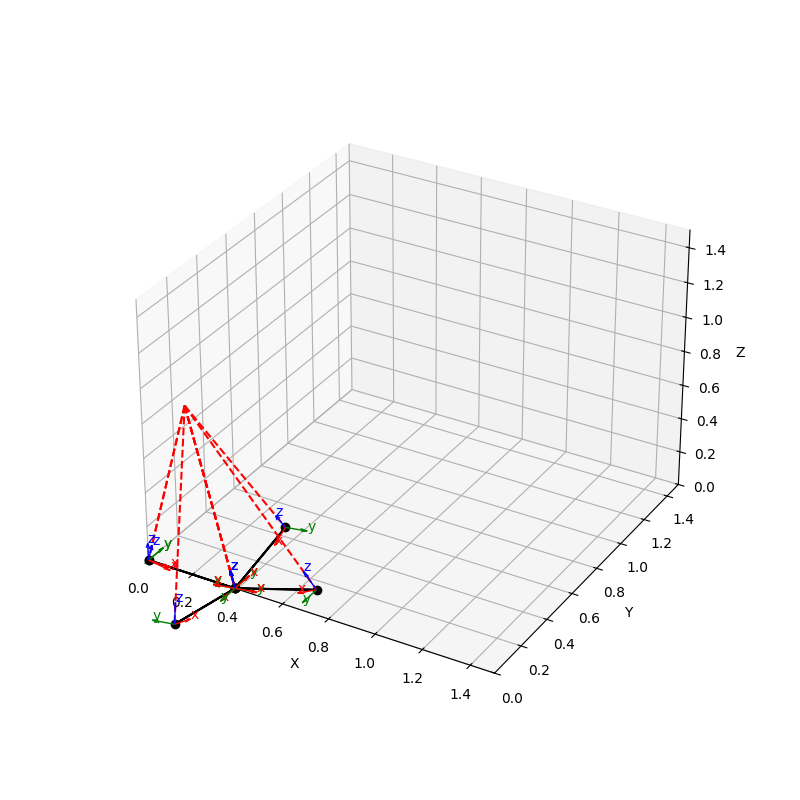
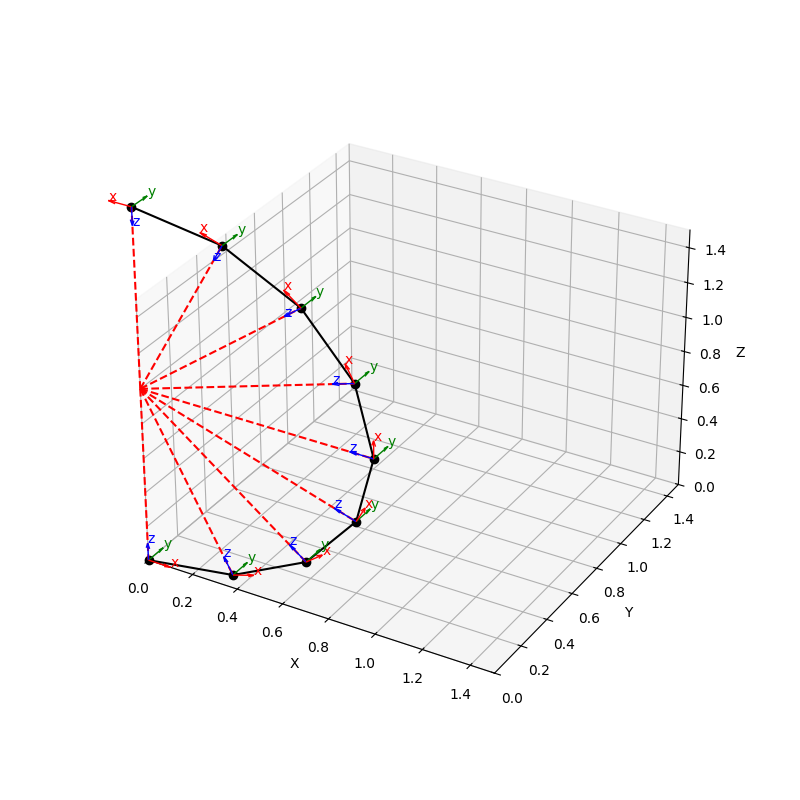
Fin base rotated about y axis to correct the length for the wire frame

diff --git a/fin_transformation.py b/fin_transformation.py
@@ -7,10 +7,14 @@ Theory taken from: FORWARD KINEMATICS: THE DENAVIT-HARTENBERG CONVENTION
 https://users.cs.duke.edu/~brd/Teaching/Bio/asmb/current/Papers/chap3-forward-kinematics.pdf
 
 TODO
-Input parameter is number of rays, geometric parameters calculated automatically 
+Fin magnitude bug 
+Update geometric parameters calculated automatically (including fold angle) when number of rays is changed
+Replace identity matrix with A0
+Double check matrix product is correct 
+Diagram to explain model using standard variable names
 """
 
-def plot_fin(positions, rotations, fin_origin, scale=0.5):
+def plot_fin(positions, rotations, fin_base, scale=0.5):
 
     """
     Plots a 3D scatter plot with folding points (joints) along the fin edge connected by a line.
@@ -21,7 +25,7 @@ def plot_fin(positions, rotations, fin_origin, scale=0.5):
     ----------
     positions : 3D position vector
     rotations: 3 x 3 orientation matrix
-    fin_origin: 3D cooridinates of the origin of the fin, calculated geometrically
+    fin_base: 3D cooridinates of the origin of the fin, calculated geometrically
     scale: scale of local coordinate axes
 
     """
@@ -66,19 +70,26 @@ def plot_fin(positions, rotations, fin_origin, scale=0.5):
     ax.set_zlim(0, 1.5)
 
     # Plot wireframe by connecting joints to fin origin
-    print(f'Sanity checking each point is equal euclidian distance from fin origin:')
+    print(f'Check each point is equal distance from fin origin and equal to hinge length l={l}:')
     for i, position in enumerate(positions):
-        xyz = [[i, j] for i, j in zip(fin_origin, position)]
+
+        # Get pairs of x, y and z coordinates to connect fin base to position 
+        xyz = [[i, j] for i, j in zip(fin_base, position)]
         x_ = xyz[0]
         y_ = xyz[1]
         z_ = xyz[2]
         ax.plot(x_, y_, z_, 'r--')  # XY plane
 
-        # Check each point is equal euclidian distance from fin origin
-        mag = ((x_[0]-x_[1])**2 + 
-               (y_[0]-y_[1])**2 + 
-               (z_[0]-z_[1])**2) ** 1/2
-        print(f'Distance of point {i} from fin origin: {round(mag, 4)}')
+        # # Check each point is equal euclidian distance from fin origin
+        # mag = ((x_[0]-x_[1])**2 + 
+        #        (y_[0]-y_[1])**2 + 
+        #        (z_[0]-z_[1])**2) ** (1/2)
+        # print(f'Distance of point {i} from fin origin: {round(mag, 4)}')
+        
+        mag = ((fin_base[0]-position[0])**2 + 
+               (fin_base[1]-position[1])**2 + 
+               (fin_base[2]-position[2])**2) ** (1/2)
+        print(f'Distance of point {i} from fin origin: {round(mag, 2)} must equal ')
 
     # plt.show()
 
@@ -158,7 +169,7 @@ def transformation_matrix(beta, a, gamma, theta):
     """
     Build A_i = Ry(beta) @ Tx(a) @ Ry(gamma) @ Rz(theta) 
     where:
-      - Ry(beta) rotates about local Y, by fixed ray offset beta, to set new X axis,
+      - Ry(beta) rotates about local Y, by fixed offset beta, to set new X axis,
       - Tx(a) is translation in new X direction by link length a,
       - Ry(gamma) rotates about local Y, by fixed offset gamma, to set new Z axis
       - Rz(theta) is joint rotation about new Z by joint angle theta.
@@ -167,72 +178,112 @@ def transformation_matrix(beta, a, gamma, theta):
     """
     return Ry(beta) @ Tx(a) @ Ry(gamma) @ Rz(theta)
 
-def generate_transformation_params(b, a, g, inner_angle):
+def generate_transformation_params(beta, a, gamma, theta):
     """
     Generates the individual joint parameters to describe the fin folding 
     """
+    inner_angle = theta
     outer_angle = -inner_angle/2
 
-    return([(b, a, g, outer_angle),
-              (b, a, g, inner_angle),
-              (b, a, g, outer_angle),
-              (b, a, g, inner_angle),
-              (b, a, g, outer_angle),
-              (b, a, g, inner_angle),
-              (b, a, g, outer_angle),
-              (b, a, g, inner_angle),
+    # print(f"inner angle = {inner_angle}, outer angle = {outer_angle}")
+
+    return([  (beta, a, gamma, outer_angle),
+              (beta, a, gamma, inner_angle),
+              (beta, a, gamma, outer_angle),
+              (beta, a, gamma, inner_angle),
+              (beta, a, gamma, outer_angle),
+              (beta, a, gamma, inner_angle),
+              (beta, a, gamma, outer_angle),
+              (beta, a, gamma, inner_angle),
               ])
 
-# 3D cooridinates of the origin of the fin, calculated geometrically
-fin_origin = [0.39/2, 0, 0.98]
 
-# Chord length along each fin ray
-l = 0.39
+# Number of fin rays
+n_rays = 8
 
-# Angle of each chord, relative to previous
-c = -pi/16
+# Fin ray angle
+alpha = pi / n_rays
 
-# Angle of each z rotation axis, relative to previous
-g = -pi/16
+# Length of hinge from fin base to fin edge
+l = 1
 
-# Iterate through a series of states from fully open fin to fully folded
-for i, angle in enumerate(np.linspace(0, pi, 1)):
+# Height of fin ray
+h = l * cos(alpha/2)
+
+# Chord of fin ray (modelled as link length)
+a = 2 * l * sin(alpha/2)
+
+print(f"a = {a}, h = {h}")
+
+
+# 3D cooridinates of the fin base 
+# fin_base = [0.39/2, 0, 0.98]
+fin_base = [a/2, 0, h]
+print(f"fin_base = {fin_base}")
+fin_base.append(1)
+print(f"fin_base = {fin_base}")
+fin_base = np.array(fin_base)
+print(f"fin_base = {fin_base}")
+fin_base = Ry(-alpha/2) @ fin_base
+print(f"fin_base = {fin_base}")
+fin_base = fin_base[:3]
+print(f"fin_base = {fin_base}")
+
+
+
+
+
+
+
+# Offset angle of each fin ray relative to previous, for translation
+# beta = -pi/16
+beta = -alpha/2
+
+# Chord length of each fin ray edge (modelled as link length)
+# a = 0.39
+
+# Offset angle relative to translation axes, for joint rotation 
+# gamma = -pi/16
+gamma = -alpha/2
+
+# Iterate through a sequence of joint angles, from fully open fin, to fully folded
+for i, theta in enumerate(np.linspace(0, pi, 1)):
 
     # Parameters for transformation matrix: beta, a, gamma, theta
-    params = generate_transformation_params(c, l, g, angle)
+    params = generate_transformation_params(beta, a, gamma, theta)
 
     # Example: Fully opn fin (flat)
-    params = [(0, l, g, 0),
-              (c, l, g, 0),
-              (c, l, g, 0),
-              (c, l, g, 0),
-              (c, l, g, 0),
-              (c, l, g, 0),
-              (c, l, g, 0),
-              (c, l, g, 0),
-            ]
+    # params = [(beta, a, gamma, 0),
+    #           (beta, a, gamma, 0),
+    #           (beta, a, gamma, 0),
+    #           (beta, a, gamma, 0),
+    #           (beta, a, gamma, 0),
+    #           (beta, a, gamma, 0),
+    #           (beta, a, gamma, 0),
+    #           (beta, a, gamma, 0),
+    #         ]
     
-    # Example: Partially folded fin (zig-zag) 
-    params = [(0, l, g, pi/4),
-              (c, l, g, -pi/4),
-              (c, l, g, pi/4),
-              (c, l, g, -pi/4),
-              (c, l, g, pi/4),
-              (c, l, g, -pi/4),
-              (c, l, g, pi/4),
-              (c, l, g, -pi/4),
-            ]
+    # # Example: Partially folded fin (zig-zag) 
+    # params = [(beta, a, gamma, pi/4),
+    #           (beta, a, gamma, -pi/4),
+    #           (beta, a, gamma, pi/4),
+    #           (beta, a, gamma, -pi/4),
+    #           (beta, a, gamma, pi/4),
+    #           (beta, a, gamma, -pi/4),
+    #           (beta, a, gamma, pi/4),
+    #           (beta, a, gamma, -pi/4),
+    #         ]
 
     # Example: Fully folded fin
-    params = [(0, l, g, -pi/2),
-              (c, l, g, pi),
-              (c, l, g, -pi/2),
-              (c, l, g, pi),
-              (c, l, g, -pi/2),
-              (c, l, g, pi),
-              (c, l, g, -pi/2),
-              (c, l, g, pi),
-            ]
+    # params = [(beta, a, gamma, -pi/2),
+    #           (beta, a, gamma, pi),
+    #           (beta, a, gamma, -pi/2),
+    #           (beta, a, gamma, pi),
+    #           (beta, a, gamma, -pi/2),
+    #           (beta, a, gamma, pi),
+    #           (beta, a, gamma, -pi/2),
+    #           (beta, a, gamma, pi),
+    #         ]
     
     # 4 x 4 identity matrix
     T = np.eye(4)
@@ -258,7 +309,7 @@ for i, angle in enumerate(np.linspace(0, pi, 1)):
     # Plot the fin
     plot_fin(positions, 
             rotations, 
-            fin_origin, 
+            fin_base, 
             scale=0.1)
 
     plt.savefig(f'fin_pose_{i}.png')
